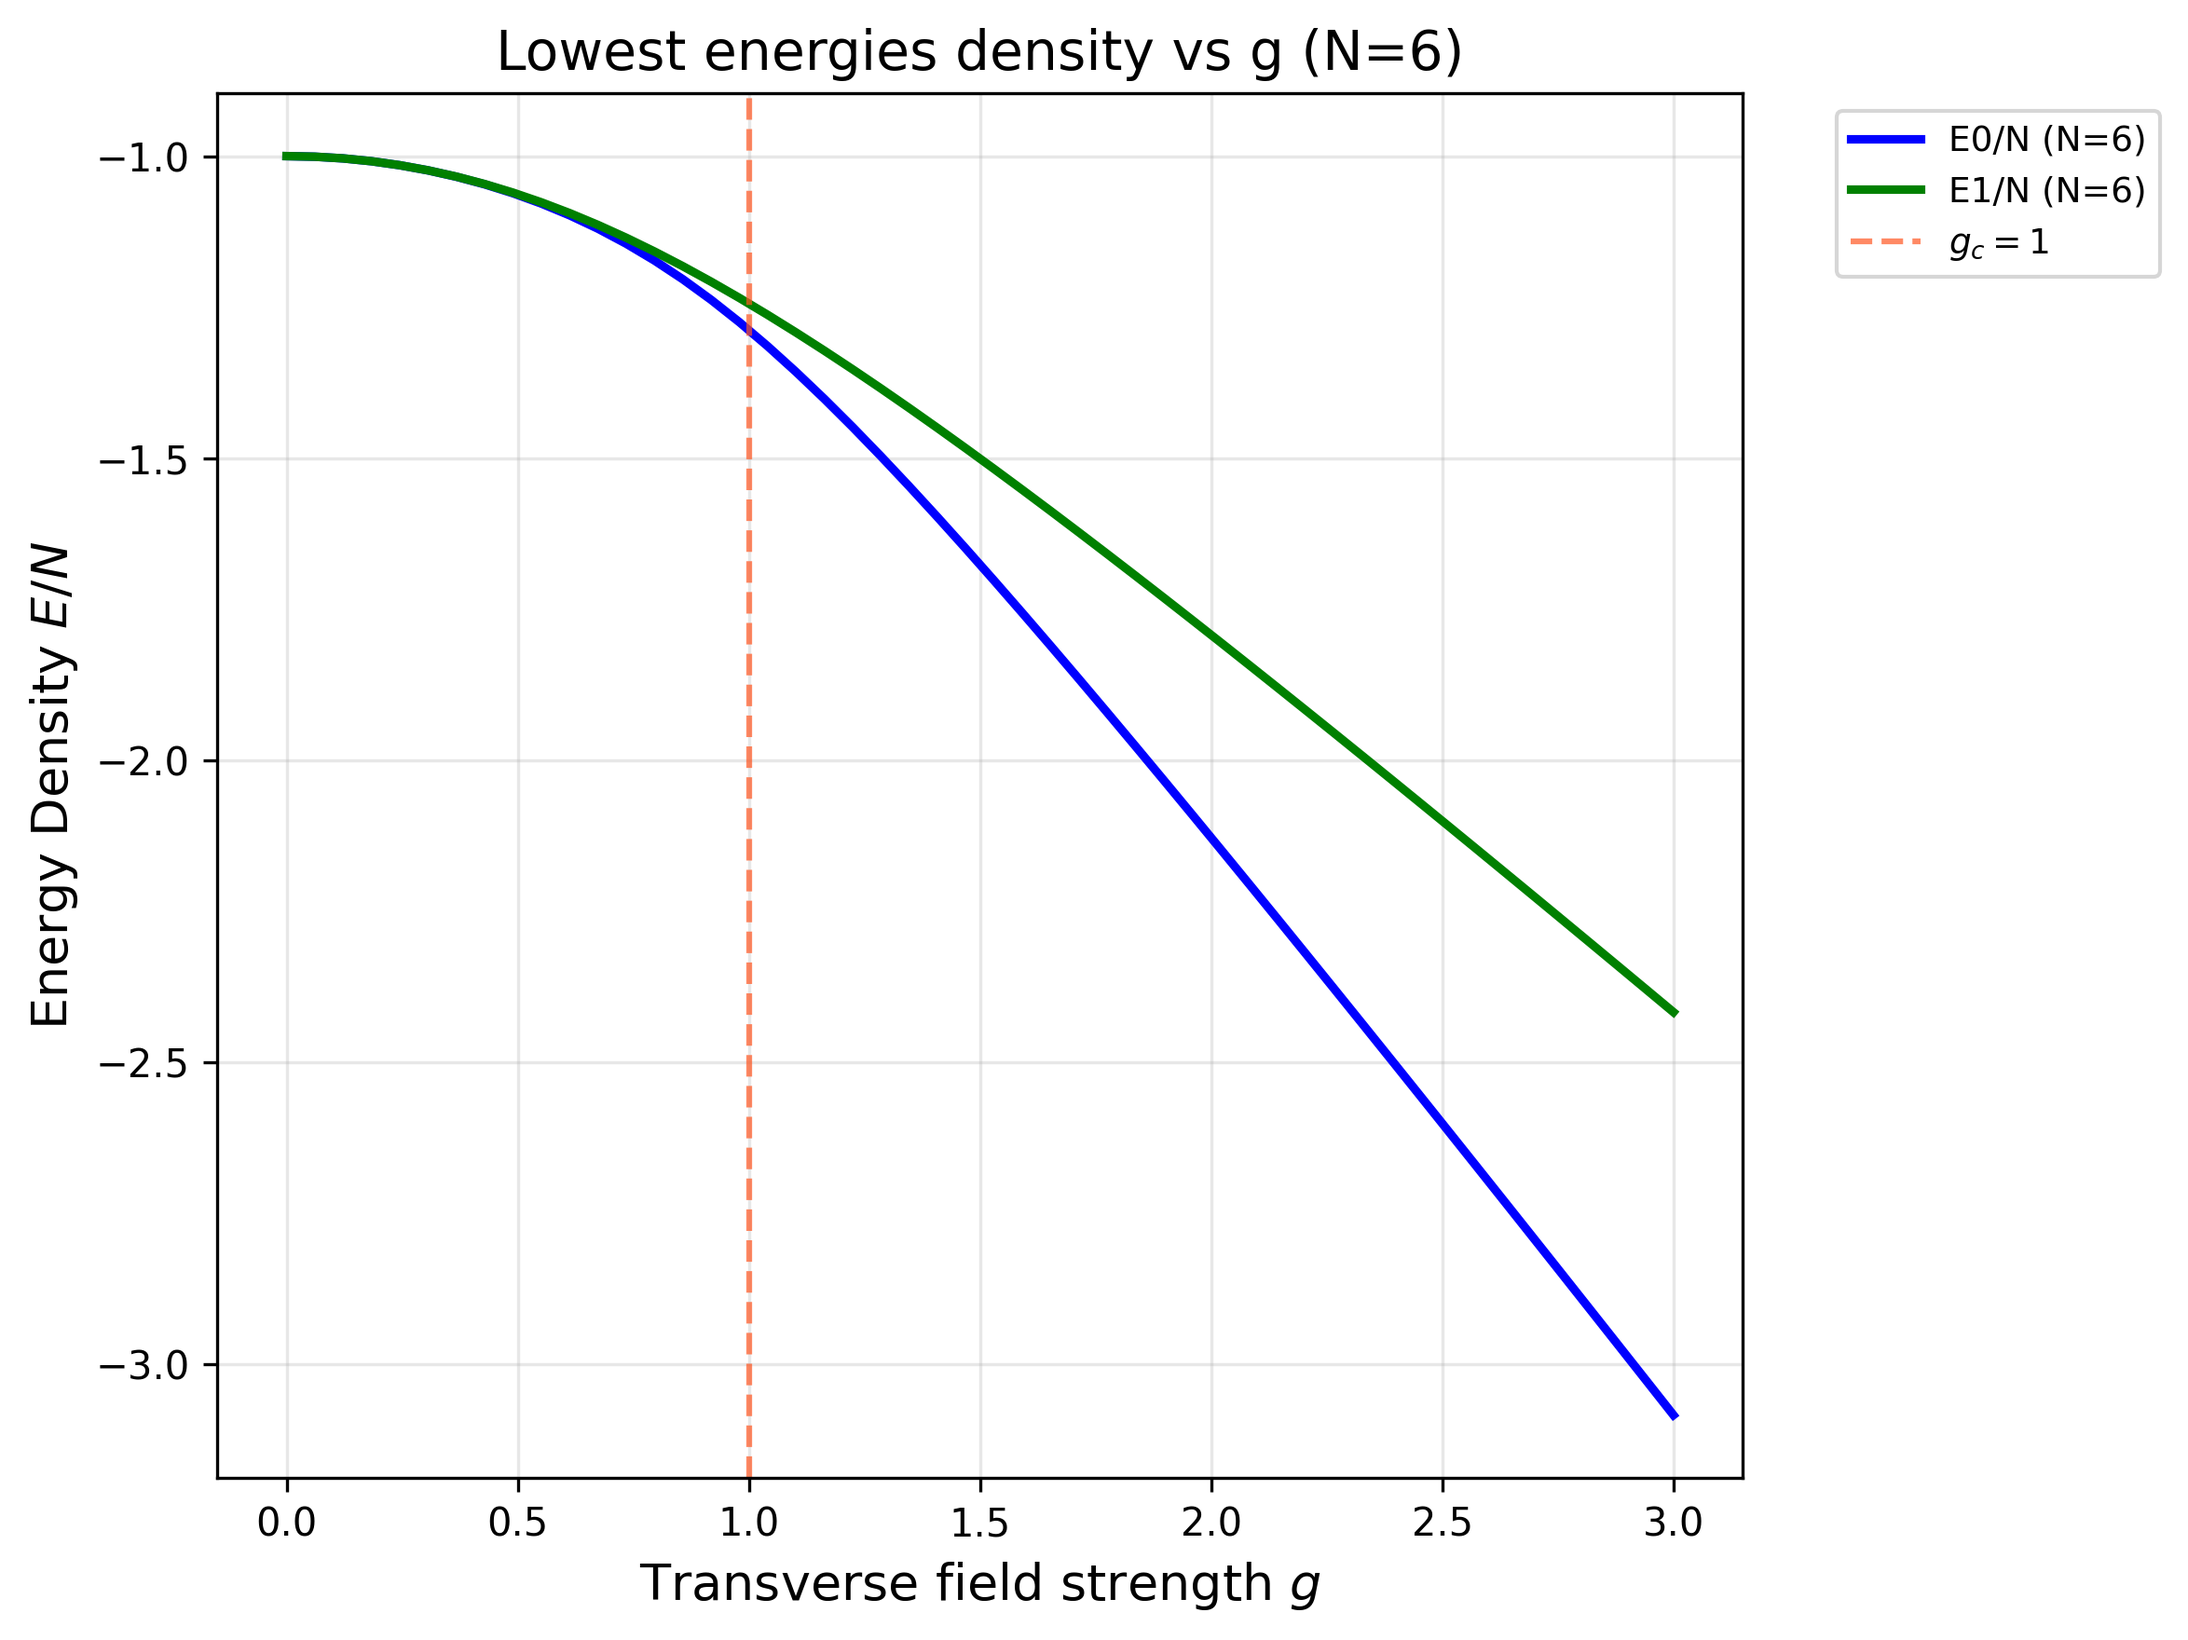
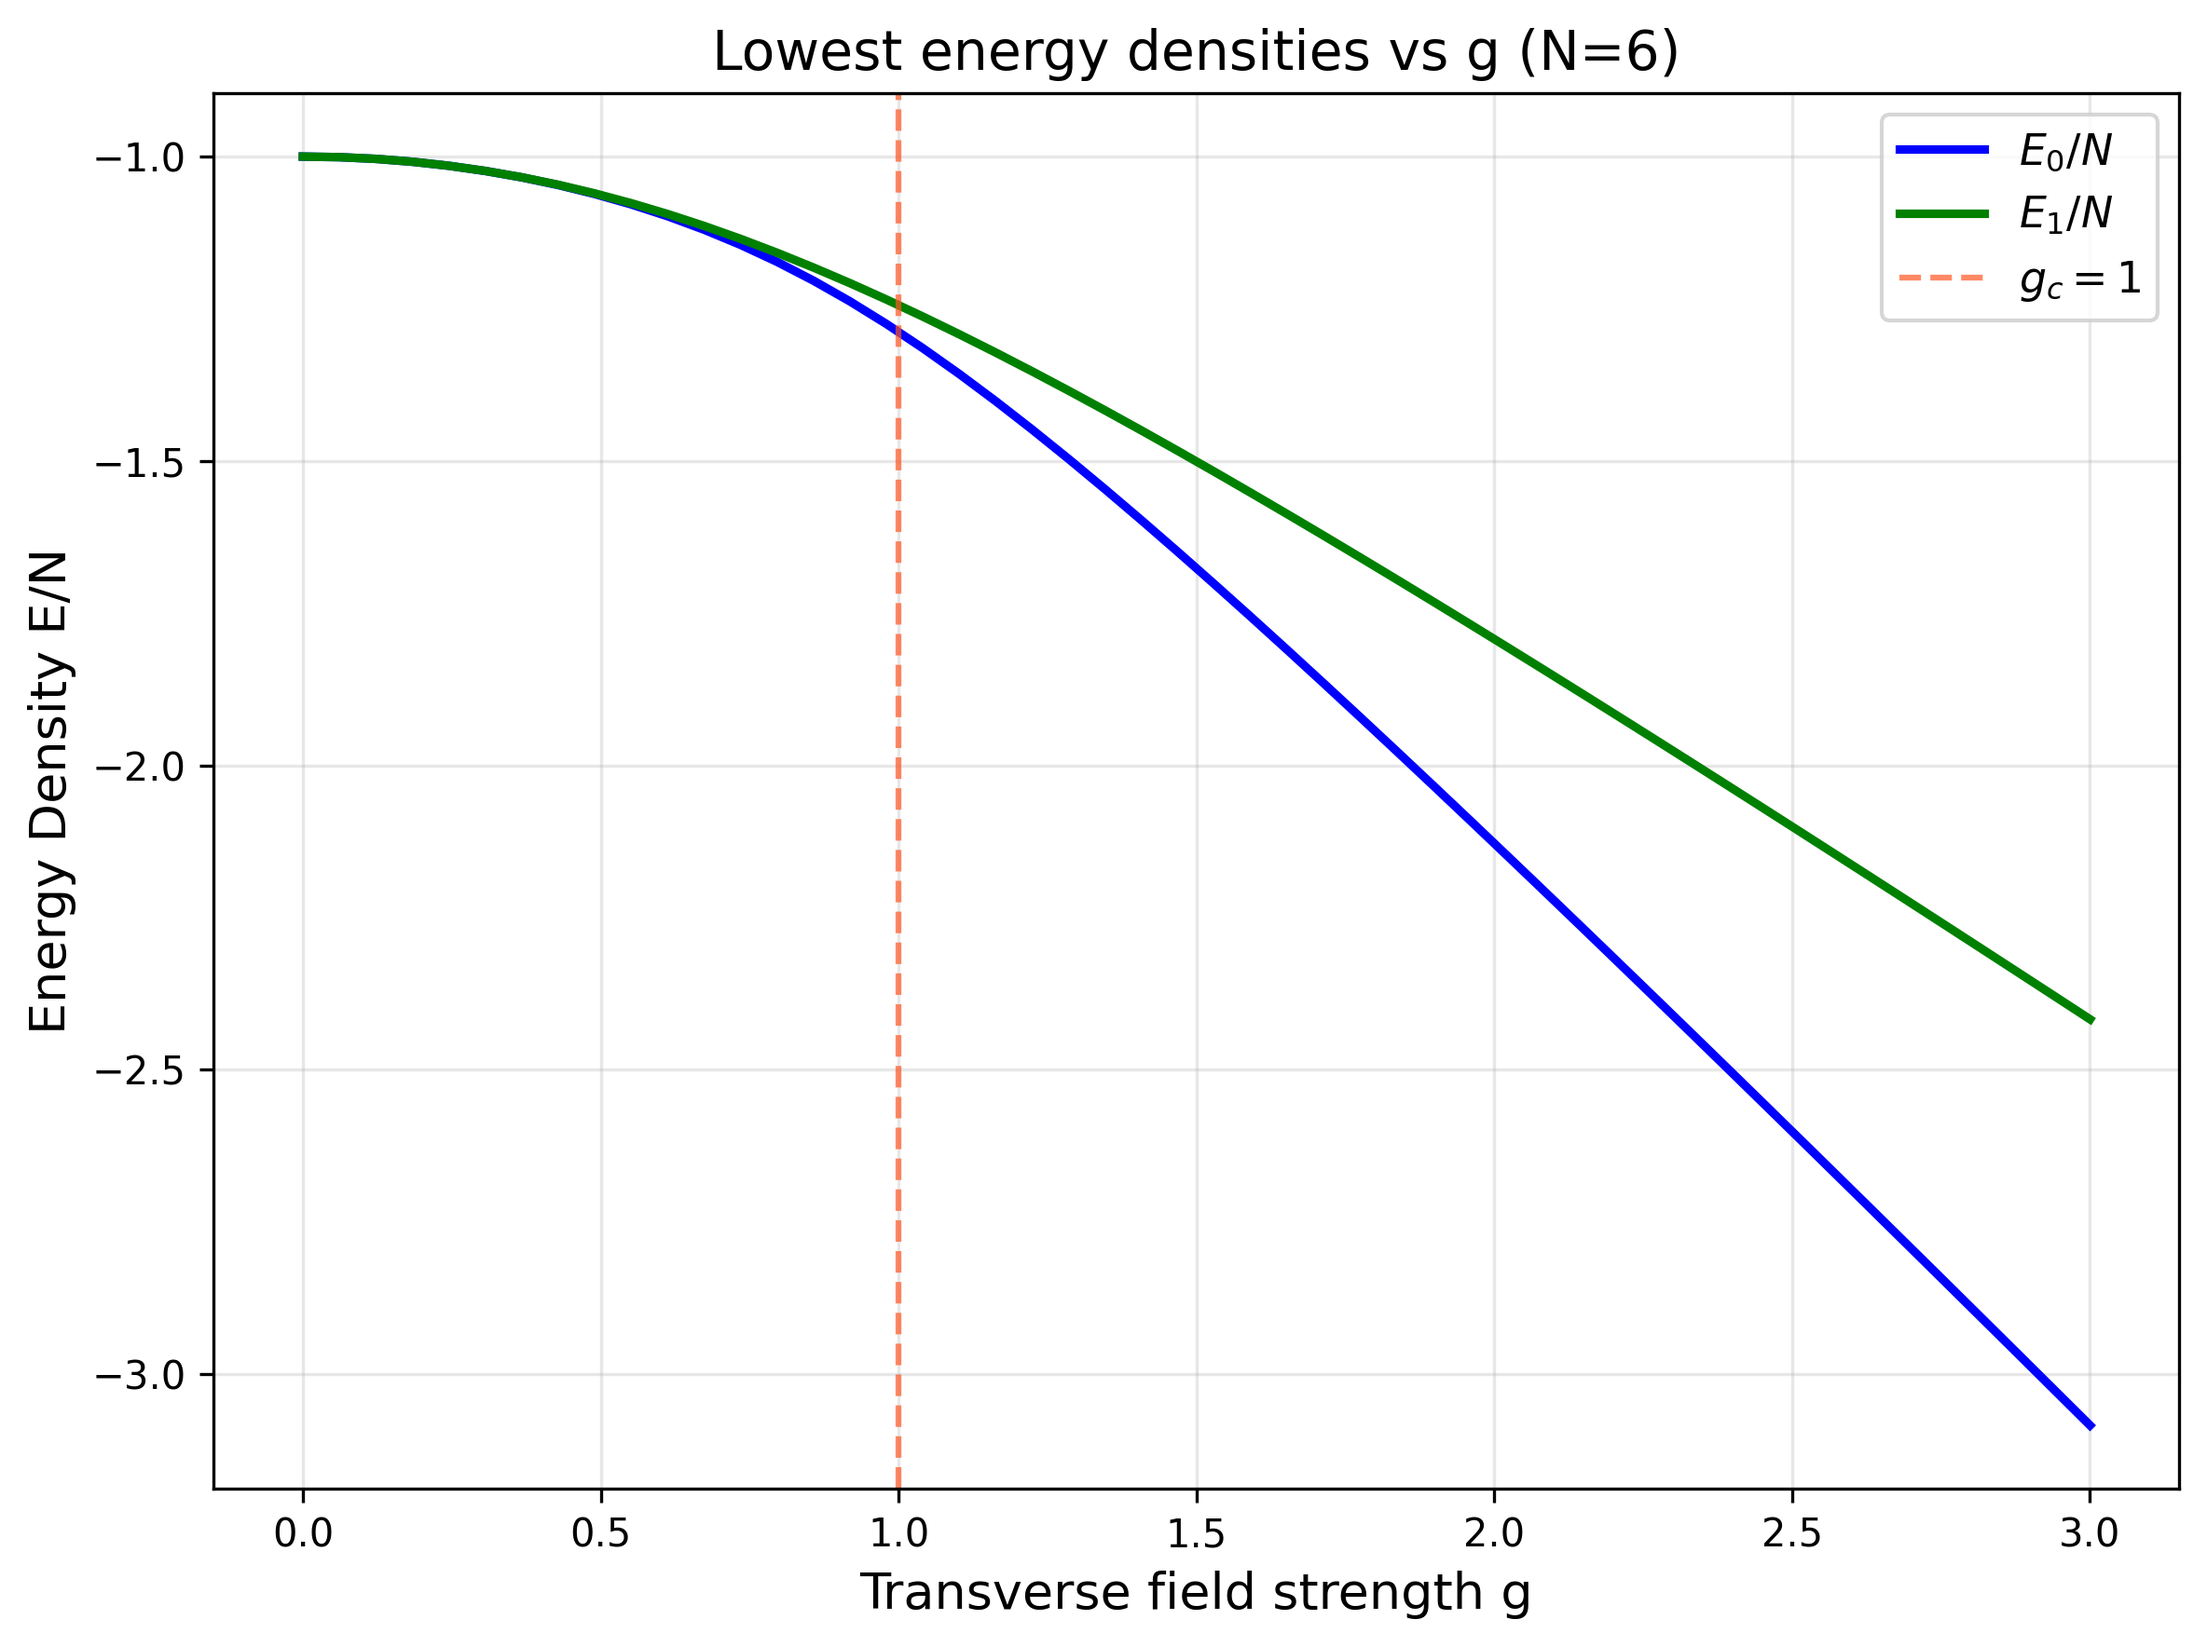
Phase1: adding the Von Neumann entropy

diff --git a/src/exact_solver.py b/src/exact_solver.py
@@ -4,7 +4,7 @@ import networkx as nx
 import matplotlib.pyplot as plt
 import qctrlvisualizer as qv
 from scipy.sparse.linalg import eigsh
-
+from qiskit.quantum_info import Statevector, partial_trace, entropy
 
 def clean(arr, tol=1e-15):
     arr = arr.copy()
@@ -12,7 +12,7 @@ def clean(arr, tol=1e-15):
     return arr
 
 
-N = 12 # qubit number
+N = 6 # qubit number
 
 # --- Lattice structure as a graph ---
 def draw_lattice():
@@ -63,6 +63,11 @@ def print_hamiltonian_matrix(N, g):
     print(H_mat)
 
 ## -- structure factor ---
+''' The goal is to observe a shift in the spin structure factor
+    which measures the spin correlation between the qubit, we shall
+    find that for the ordered phase (g<1, the spins are mostly
+    aligned) the factor is closest to 1 and vice versa for the 
+    disordered phase'''
 def get_szz_factor(N, g):
 
     ''' Since we're calling compute_lowest_energies, 
@@ -83,54 +88,82 @@ def get_szz_factor(N, g):
     # N addition contributions Zi*Zi
     S = np.real(np.vdot(psi0, ZZ_total @ psi0)) + N
     
-    return S / N**2, vals[0], vals[1]
+    return S / N**2, vals[0], vals[1], psi0
 
+
+# --- Von Neumann entropy---
+def vneumann_entropy(psi, trace_out_indices: list):
+    #partial trace
+    rho= partial_trace(psi, trace_out_indices)
+    return entropy(rho)
 
 if __name__ == "__main__":
-    
-    # --- Parameters for the sweep ---
+
     g_values = np.linspace(0, 3, 50)
-    N_list = [4, 6, 8, 10, 12, 14]
-    
-    fig_S, ax_S = plt.subplots(figsize=(8, 6))
+
+ 
+    # 1) Energy densities E0/N and E1/N (global N)
+  
+    E0_values = np.zeros_like(g_values)
+    E1_values = np.zeros_like(g_values)
+
+    for idx, g in enumerate(g_values):
+        vals, _ = compute_lowest_energies(N, g)
+        E0_values[idx] = vals[0] / N
+        E1_values[idx] = vals[1] / N
+
     fig_E, ax_E = plt.subplots(figsize=(8, 6))
-    
+    ax_E.plot(g_values, E0_values, color='b', linewidth=2.2, label=f"$E_0/N$")
+    ax_E.plot(g_values, E1_values, color='g', linewidth=2.2, label=f"$E_1/N$")
+    ax_E.axvline(x=1.0, color="#FF5722", linestyle="--", alpha=0.7, label=r"$g_c = 1$")
+    ax_E.set_xlabel("Transverse field strength g", fontsize=13)
+    ax_E.set_ylabel("Energy Density E/N", fontsize=13)
+    ax_E.set_title(f"Lowest energy densities vs g (N={N})", fontsize=14)
+    ax_E.legend(fontsize=11)
+    ax_E.grid(True, alpha=0.3)
+    fig_E.tight_layout()
+    fig_E.savefig(f"figures/energy_density_N={N}.png", dpi=300, bbox_inches='tight')
+
+
+    # 2) Structure factor & Von Neumann entropy for multiple N values
+   
+    N_list = [4, 6, 8, 10, 12, 14]
     colors = plt.cm.coolwarm(np.linspace(0, 1, len(N_list)))
 
-    for i, N in enumerate(N_list):
-        S_values = np.zeros_like(g_values)
-        E0_values = np.zeros_like(g_values)
-        E1_values = np.zeros_like(g_values)
-        
-        for idx, g in enumerate(g_values):
-            S, E0, E1 = get_szz_factor(N, g)
-            S_values[idx] = S
-            E0_values[idx] = E0 / N
-            E1_values[idx] = E1 / N
-            
-        ax_S.plot(g_values, S_values, color=colors[i], linewidth=2.2, label=f"N = {N}")
-        
-        if N == 6:
-            ax_E.plot(g_values, E0_values, color='b', linestyle='-', linewidth=2.2, label=f"E0/N (N={N})")
-            ax_E.plot(g_values, E1_values, color='g', linestyle='-', linewidth=2.2, label=f"E1/N (N={N})")
+    fig_S, ax_S = plt.subplots(figsize=(8, 6))
+    fig_SvN, ax_SvN = plt.subplots(figsize=(8, 6))
 
+    for i, Ni in enumerate(N_list):
+        trace_out_indices = list(range(Ni // 2, Ni))
+        L = Ni // 2
+
+        S_values = np.zeros_like(g_values)
+        SvN_values = np.zeros_like(g_values)
+
+        for idx, g in enumerate(g_values):
+            S, _, _, psi0 = get_szz_factor(Ni, g)
+            S_values[idx] = S
+            SvN_values[idx] = vneumann_entropy(Statevector(psi0), trace_out_indices)
+
+        ax_S.plot(g_values, S_values, color=colors[i], linewidth=2.2, label=f"N={Ni}")
+        ax_SvN.plot(g_values, SvN_values, color=colors[i], linewidth=2.2, label=f"N={Ni}")
+
+    # --- Structure factor plot ---
     ax_S.axvline(x=1.0, color="#FF5722", linestyle="--", alpha=0.7, label=r"$g_c = 1$")
-    ax_S.set_xlabel(r"Transverse field strength $g$", fontsize=13)
-    ax_S.set_ylabel(r"Structure factor $S$", fontsize=13)
-    ax_S.set_title("Magnetic structure factor vs g for diff N", fontsize=14)
+    ax_S.set_xlabel("Transverse field strength g", fontsize=13)
+    ax_S.set_ylabel("Structure factor S", fontsize=13)
+    ax_S.set_title("Magnetic structure factor vs g", fontsize=14)
     ax_S.legend(fontsize=11)
     ax_S.grid(True, alpha=0.3)
-
-    ax_E.axvline(x=1.0, color="#FF5722", linestyle="--", alpha=0.7, label=r"$g_c = 1$")
-    ax_E.set_xlabel(r"Transverse field strength $g$", fontsize=13)
-    ax_E.set_ylabel(r"Energy Density $E/N$", fontsize=13)
-    ax_E.set_title("Lowest energies density vs g (N=6)", fontsize=14)
-    ax_E.legend(fontsize=9, bbox_to_anchor=(1.05, 1), loc='upper left')
-    ax_E.grid(True, alpha=0.3)
-
-    plt.tight_layout()  
-    
+    fig_S.tight_layout()
     fig_S.savefig("figures/structure_factor.png", dpi=300, bbox_inches='tight')
-    fig_E.savefig("figures/energy_density_N=6.png", dpi=300, bbox_inches='tight')
-    
-   
+
+    # --- Von Neumann entropy plot ---
+    ax_SvN.axvline(x=1.0, color="#FF5722", linestyle="--", alpha=0.7, label=r"$g_c = 1$")
+    ax_SvN.set_xlabel("Transverse field strength g", fontsize=13)
+    ax_SvN.set_ylabel(r"$S_{vN}$", fontsize=13)
+    ax_SvN.set_title(r"Von Neumann bipartite entropy vs $g$ (half-chain)", fontsize=14)
+    ax_SvN.legend(fontsize=11)
+    ax_SvN.grid(True, alpha=0.3)
+    fig_SvN.tight_layout()
+    fig_SvN.savefig("figures/VNeumann_entropy.png", dpi=300, bbox_inches='tight')
